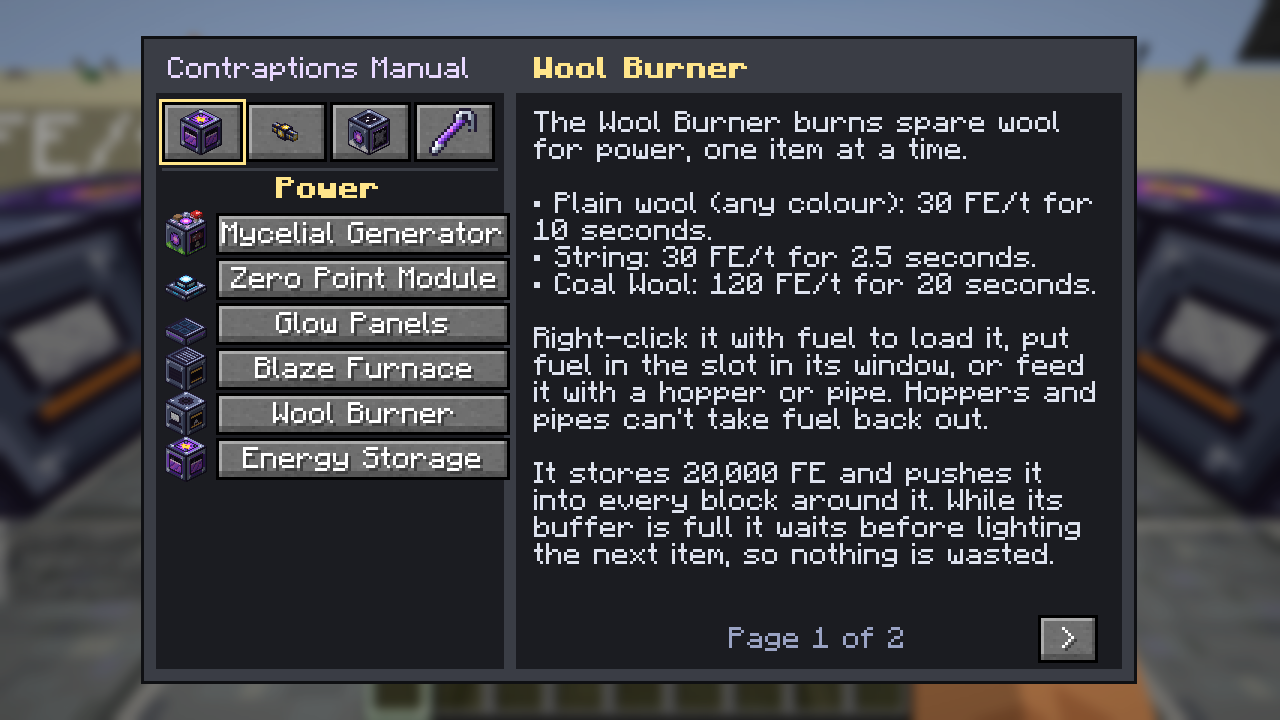
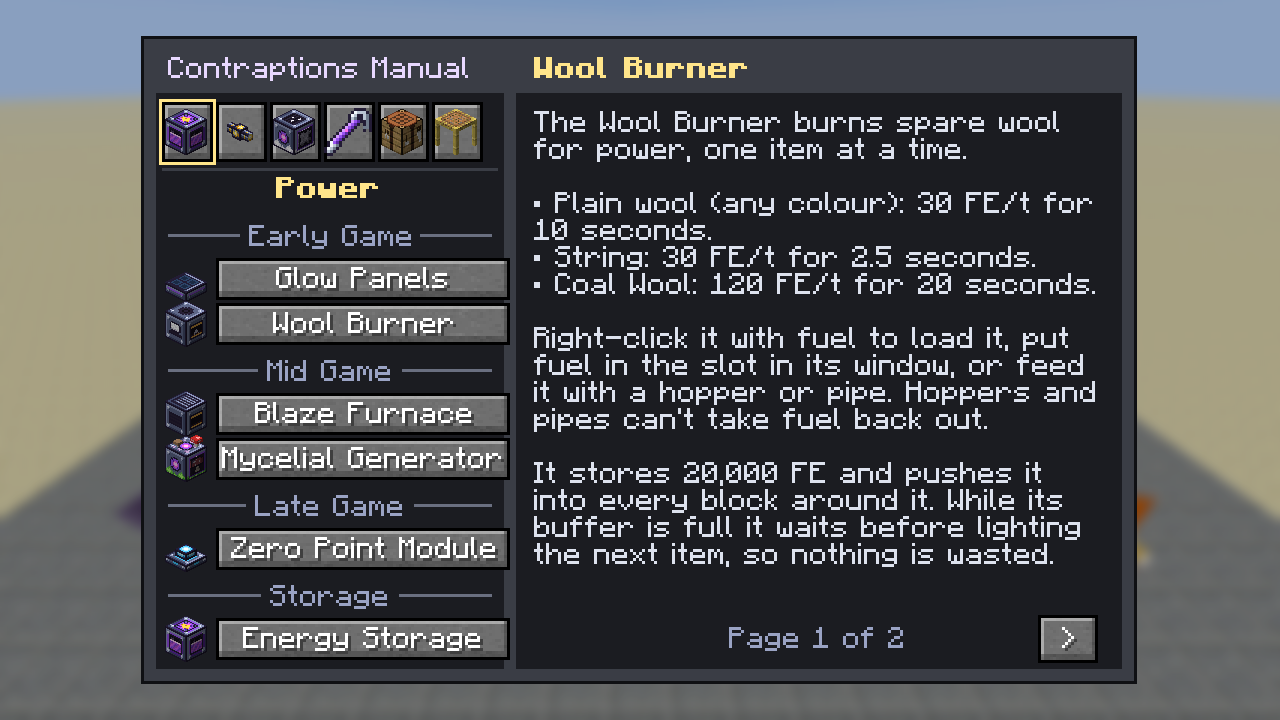
Sort the manual's Power tab into early, mid and late game
Guide chapters can name a group, and the chapter list shows a heading for
each. The Power tab lists the Glow Panels and Wool Burner under Early Game,
the Blaze Furnace and Mycelial Generator under Mid Game, the Zero Point Module
under Late Game, and Energy Storage under Storage. The README's Power section
follows the same order.

Claude-Session: https://claude.ai/code/session_012iurxobutw9xMP3SqHHLFE

diff --git a/src/main/java/com/jax3/barelyfunctionalcontraptions/sheep/client/GuideScreen.java b/src/main/java/com/jax3/barelyfunctionalcontraptions/sheep/client/GuideScreen.java
@@ -57,9 +57,25 @@ public class GuideScreen extends Screen {
         return result;
     }
 
-    /** Height of one chapter button: 15, or less so that a longer list still fits in the window. */
+    /** One line of the chapter list: a chapter (its index in {@link #chapters}), or a group heading. */
+    private record Row(int chapter, String heading) {}
+
+    /** The open tab's list: its chapters, with a heading wherever the group changes (the Power tab's tiers). */
+    private List<Row> rows() {
+        List<Row> rows = new ArrayList<>();
+        String group = "";
+        for (int index : inTab()) {
+            String g = chapters.get(index).group();
+            if (!g.isEmpty() && !g.equals(group)) rows.add(new Row(-1, g));
+            group = g;
+            rows.add(new Row(index, ""));
+        }
+        return rows;
+    }
+
+    /** Height of one list row: 15, or less so that a longer list still fits in the window. */
     private int row() {
-        return Math.min(ROW, LIST_HEIGHT / Math.max(1, inTab().size()));
+        return Math.min(ROW, LIST_HEIGHT / Math.max(1, rows().size()));
     }
 
     private int left() {
@@ -81,9 +97,11 @@ public class GuideScreen extends Screen {
                     .bounds(left() + 6 + i * (TAB_W + 1), top() + TAB_Y, TAB_W, TAB_H).build()));
         }
         List<Integer> list = inTab();
+        List<Row> rows = rows();
         int y = top() + LIST_Y;
-        for (int i = 0; i < list.size(); i++) {
-            int index = list.get(i);
+        for (int i = 0; i < rows.size(); i++) {
+            int index = rows.get(i).chapter();
+            if (index < 0) continue;
             addRenderableWidget(Button.builder(Component.literal(chapters.get(index).title()), b -> openChapter(index))
                     .bounds(x + 18, y + i * row(), LIST_WIDTH - 20, row() - 1).build());
         }
@@ -282,9 +300,20 @@ public class GuideScreen extends Screen {
         }
         Component tabName = tab.title().copy().withStyle(ChatFormatting.BOLD);
         g.text(font, tabName, x + 4 + (LIST_WIDTH - 2 - font.width(tabName)) / 2, y + TAB_NAME_Y, 0xFFFFE58A, false);
-        List<Integer> list = inTab();
-        for (int i = 0; i < list.size(); i++) {
-            g.item(chapters.get(list.get(i)).icon(), x + 6, y + LIST_Y + i * row() - 1);
+        List<Row> rows = rows();
+        for (int i = 0; i < rows.size(); i++) {
+            Row r = rows.get(i);
+            int rowY = y + LIST_Y + i * row();
+            if (r.chapter() >= 0) {
+                g.item(chapters.get(r.chapter()).icon(), x + 6, rowY - 1);
+            } else {
+                // A group heading: its name centred between two rules.
+                Component heading = Component.literal(r.heading());
+                int w = font.width(heading), cx = x + 4 + (LIST_WIDTH - 2) / 2, ty = rowY + (row() - 9) / 2 + 1;
+                g.fill(x + 8, ty + 3, cx - w / 2 - 3, ty + 4, 0xFF6A6F80);
+                g.fill(cx + w / 2 + 3, ty + 3, x + LIST_WIDTH - 2, ty + 4, 0xFF6A6F80);
+                g.text(font, heading, cx - w / 2, ty, 0xFF9AA3C4, false);
+            }
         }
         if (chapters.isEmpty()) {
             g.text(font, Component.translatable("guide.barelyfunctionalcontraptions.missing"), x + LIST_WIDTH + 12, y + 24, 0xFFFF8080, false);

diff --git a/src/main/java/com/jax3/barelyfunctionalcontraptions/sheep/client/GuideBook.java b/src/main/java/com/jax3/barelyfunctionalcontraptions/sheep/client/GuideBook.java
@@ -21,17 +21,26 @@ import net.minecraft.world.item.Items;
  * <pre>{@code
  * { "chapters": [
  *     { "title": "Mycelial Generator", "icon": "barelyfunctionalcontraptions:mycelial_generator", "tab": "power",
- *       "text": ["A paragraph.", "## A heading", "- A list item"] } ] }
+ *       "group": "Mid Game", "text": ["A paragraph.", "## A heading", "- A list item"] } ] }
  * }</pre>
+ * {@code group} is optional: within a tab, chapters are listed under a heading for each group, in file order.
  * Paragraphs are wrapped and split into pages by the screen. A paragraph starting with {@code ## } is a heading.
  * {@code tab} is one of {@code power}, {@code logistics}, {@code production}, {@code utility} (the default) or {@code wip}
  * (work-in-progress features). The
  * Recipes tab isn't in the JSON: {@link GuideRecipes} builds it from the game.
  */
 public final class GuideBook {
-    public record Chapter(String title, ItemStack icon, Tab tab, List<String> text, List<GuideRecipes.Recipe> recipes) {
+    /**
+     * @param group a heading the chapter is listed under within its tab ("Early Game"...), or empty; chapters of one
+     *              group should follow each other in the file
+     */
+    public record Chapter(String title, ItemStack icon, Tab tab, String group, List<String> text, List<GuideRecipes.Recipe> recipes) {
         public Chapter(String title, ItemStack icon, Tab tab, List<String> text) {
-            this(title, icon, tab, text, List.of());
+            this(title, icon, tab, "", text, List.of());
+        }
+
+        public Chapter(String title, ItemStack icon, Tab tab, List<String> text, List<GuideRecipes.Recipe> recipes) {
+            this(title, icon, tab, "", text, recipes);
         }
 
         /** A chapter of recipes (the Recipes tab), drawn as slots rather than text. */
@@ -112,7 +121,8 @@ public final class GuideBook {
             List<String> text = new ArrayList<>();
             for (JsonElement line : chapter.getAsJsonArray("text")) text.add(line.getAsString());
             Tab tab = Tab.byKey(chapter.has("tab") ? chapter.get("tab").getAsString() : "");
-            chapters.add(new Chapter(title, icon, tab, List.copyOf(text)));
+            String group = chapter.has("group") ? chapter.get("group").getAsString() : "";
+            chapters.add(new Chapter(title, icon, tab, group, List.copyOf(text), List.of()));
         }
         return chapters;
     }

diff --git a/src/main/java/com/jax3/barelyfunctionalcontraptions/sheep/client/DevScreenshotHarness.java b/src/main/java/com/jax3/barelyfunctionalcontraptions/sheep/client/DevScreenshotHarness.java
@@ -1701,7 +1701,9 @@ public final class DevScreenshotHarness {
             case 348 -> shot(mc, "99_guide_recipes_bales");
             case 350 -> { if (mc.gui.screen() instanceof GuideScreen guide) guide.openTab(GuideBook.Tab.WIP); }
             case 360 -> shot(mc, "99_guide_wip");
-            case 364 -> mc.stop();
+            case 362 -> { if (mc.gui.screen() instanceof GuideScreen guide) guide.openChapter("Wool Burner"); }
+            case 372 -> shot(mc, "83_guide_power_tab");
+            case 376 -> mc.stop();
             default -> {}
         }
     }

diff --git a/docs/CURSEFORGE.md b/docs/CURSEFORGE.md
@@ -41,17 +41,9 @@ Craft a book with a Functional Machine Block to get the in-game guide. Its chapt
 
 ## Power
 
-### Mycelial Generator
+The manual sorts the generators into tiers.
 
-Burns red or brown mushrooms and water for 200–250 FE/t. Generators that touch form a network, and each running one boosts the whole network's output. Running generators slowly turn nearby dirt into mycelium and sometimes grow huge mushrooms, so they make more of their own fuel.
-
-![Machine fronts, idle and running](https://raw.githubusercontent.com/JAX3/Barely-Functional-Contraptions/main/docs/screenshots/14_machine_fronts.png)
-
-### Zero Point Module
-
-Two modules facing each other across open space link with a beam and make 1,000 FE/t for every block of gap, up to 64. Stained glass in the gap colours the beam, and the beam burns anything that walks into it.
-
-![Two Zero Point Energy Modules joined by a beam coloured by stained glass](https://raw.githubusercontent.com/JAX3/Barely-Functional-Contraptions/main/docs/screenshots/34_zero_point_coloured_beam.png)
+**Early game:** Glow Panel and Wool Burner. Cheap to build, but weak.
 
 ### Glow Panels
 
@@ -59,17 +51,33 @@ Make up to 60 FE/t from sunlight and up to 40 FE/t from block light; a Glow Lamp
 
 ![Glow Panels in the sun with a Glow Lamp](https://raw.githubusercontent.com/JAX3/Barely-Functional-Contraptions/main/docs/screenshots/55_glow_panels.png)
 
+### Wool Burner
+
+Burns spare wool for power, one item at a time: plain wool and string give 30 FE/t, Coal Wool 120 FE/t. It waits while its buffer is full, so nothing is wasted.
+
+![A row of Wool Burners, one fed by a hopper](https://raw.githubusercontent.com/JAX3/Barely-Functional-Contraptions/main/docs/screenshots/80_wool_burners.png)
+
+**Mid game:** Blaze Furnace and Mycelial Generator. They need the Nether or a mushroom farm, and Mycelial networks grow fast.
+
 ### Blaze Furnace
 
 Makes power from the heat of Blaze sheep standing round it: 80 FE/t for one, up to 260 FE/t for four. Only a sheep with its blazing fleece on counts, and each Blaze Rod doubles the output for 30 seconds.
 
 ![A Blaze Sheep Furnace beside a burning Blaze sheep, with its area shown](https://raw.githubusercontent.com/JAX3/Barely-Functional-Contraptions/main/docs/screenshots/70_blaze_furnace.png)
 
-### Wool Burner
+### Mycelial Generator
 
-Burns spare wool for power, one item at a time: plain wool and string give 30 FE/t, Coal Wool 120 FE/t. It waits while its buffer is full, so nothing is wasted.
+Burns red or brown mushrooms and water for 200–250 FE/t. Generators that touch form a network, and each running one boosts the whole network's output. Running generators slowly turn nearby dirt into mycelium and sometimes grow huge mushrooms, so they make more of their own fuel.
 
-![A row of Wool Burners, one fed by a hopper](https://raw.githubusercontent.com/JAX3/Barely-Functional-Contraptions/main/docs/screenshots/80_wool_burners.png)
+![Machine fronts, idle and running](https://raw.githubusercontent.com/JAX3/Barely-Functional-Contraptions/main/docs/screenshots/14_machine_fronts.png)
+
+**Late game:** Zero Point Module. It costs a Nether Star and makes the most power, with no fuel.
+
+### Zero Point Module
+
+Two modules facing each other across open space link with a beam and make 1,000 FE/t for every block of gap, up to 64. Stained glass in the gap colours the beam, and the beam burns anything that walks into it.
+
+![Two Zero Point Energy Modules joined by a beam coloured by stained glass](https://raw.githubusercontent.com/JAX3/Barely-Functional-Contraptions/main/docs/screenshots/34_zero_point_coloured_beam.png)
 
 ### Energy Storage
 

diff --git a/README.md b/README.md
@@ -35,17 +35,9 @@ Craft a book with a Functional Machine Block to get the in-game guide. Its chapt
 
 ## Power
 
-### Mycelial Generator
+The manual sorts the generators into tiers.
 
-Burns red or brown mushrooms and water for 200–250 FE/t. Generators that touch form a network, and each running one boosts the whole network's output. Running generators slowly turn nearby dirt into mycelium and sometimes grow huge mushrooms, so they make more of their own fuel.
-
-![Machine fronts, idle and running](docs/screenshots/14_machine_fronts.png)
-
-### Zero Point Module
-
-Two modules facing each other across open space link with a beam and make 1,000 FE/t for every block of gap, up to 64. Stained glass in the gap colours the beam, and the beam burns anything that walks into it.
-
-![Two Zero Point Energy Modules joined by a beam coloured by stained glass](docs/screenshots/34_zero_point_coloured_beam.png)
+**Early game:** Glow Panel and Wool Burner. Cheap to build, but weak.
 
 ### Glow Panels
 
@@ -53,17 +45,33 @@ Make up to 60 FE/t from sunlight and up to 40 FE/t from block light; a Glow Lamp
 
 ![Glow Panels in the sun with a Glow Lamp](docs/screenshots/55_glow_panels.png)
 
+### Wool Burner
+
+Burns spare wool for power, one item at a time: plain wool and string give 30 FE/t, Coal Wool 120 FE/t. It waits while its buffer is full, so nothing is wasted.
+
+![A row of Wool Burners, one fed by a hopper](docs/screenshots/80_wool_burners.png)
+
+**Mid game:** Blaze Furnace and Mycelial Generator. They need the Nether or a mushroom farm, and Mycelial networks grow fast.
+
 ### Blaze Furnace
 
 Makes power from the heat of Blaze sheep standing round it: 80 FE/t for one, up to 260 FE/t for four. Only a sheep with its blazing fleece on counts, and each Blaze Rod doubles the output for 30 seconds.
 
 ![A Blaze Sheep Furnace beside a burning Blaze sheep, with its area shown](docs/screenshots/70_blaze_furnace.png)
 
-### Wool Burner
+### Mycelial Generator
 
-Burns spare wool for power, one item at a time: plain wool and string give 30 FE/t, Coal Wool 120 FE/t. It waits while its buffer is full, so nothing is wasted.
+Burns red or brown mushrooms and water for 200–250 FE/t. Generators that touch form a network, and each running one boosts the whole network's output. Running generators slowly turn nearby dirt into mycelium and sometimes grow huge mushrooms, so they make more of their own fuel.
 
-![A row of Wool Burners, one fed by a hopper](docs/screenshots/80_wool_burners.png)
+![Machine fronts, idle and running](docs/screenshots/14_machine_fronts.png)
+
+**Late game:** Zero Point Module. It costs a Nether Star and makes the most power, with no fuel.
+
+### Zero Point Module
+
+Two modules facing each other across open space link with a beam and make 1,000 FE/t for every block of gap, up to 64. Stained glass in the gap colours the beam, and the beam burns anything that walks into it.
+
+![Two Zero Point Energy Modules joined by a beam coloured by stained glass](docs/screenshots/34_zero_point_coloured_beam.png)
 
 ### Energy Storage
 

diff --git a/docs/REFERENCE.md b/docs/REFERENCE.md
@@ -62,7 +62,7 @@ The integration is covered by GameTests, which run in [`IntegrationGameTests`](.
 ### Contraptions Manual (in-game guide)
 Craft a **Contraptions Manual** (a book and a Functional Machine Block) and right-click it to read about everything in the mod in game. Its chapters are sorted into six tabs along the top of the left panel:
 
-- **Power:** the generators (Mycelial Generator, Zero Point Module, Glow Panels, Blaze Sheep Furnace, Wool Burner) and energy storage.
+- **Power:** the generators, listed in tiers: *Early Game* (Glow Panels, Wool Burner), *Mid Game* (Blaze Sheep Furnace, Mycelial Generator) and *Late Game* (Zero Point Module), then energy storage. A guide chapter's optional `"group"` field sets the heading it is listed under.
 - **Logistics:** cables and the Energy Meter, tanks and pipes, pipe modes and filters, and the Wool Packer.
 - **Production:** infusing sheep, the themed sheep, the Infusion Altar, breeding stats, the Mechanical Separator and Automatic Shears, and the Fluid Reservoir.
 - **Utility:** getting started, the wrench and its links, and data packs and commands.
@@ -73,7 +73,7 @@ Hover over a tab to see its name. A resource pack's guide file can still use the
 
 | Power tab | Production tab |
 |---|---|
-| ![The Contraptions Manual on its Power tab: four tab icons along the top with Power framed, its six chapters below, and the Wool Burner chapter open](screenshots/83_guide_power_tab.png) | ![The Production tab: Infusing Sheep, Themed Sheep, Infusion Altar, Breeding Sheep, Wool Machines and Fluid Reservoir, with Infusing Sheep open](screenshots/84_guide_production_tab.png) |
+| ![The Contraptions Manual on its Power tab: six tab icons along the top with Power framed, its chapters below under Early Game, Mid Game, Late Game and Storage headings, and the Wool Burner chapter open](screenshots/83_guide_power_tab.png) | ![The Production tab: Infusing Sheep, Themed Sheep, Infusion Altar, Breeding Sheep, Wool Machines and Fluid Reservoir, with Infusing Sheep open](screenshots/84_guide_production_tab.png) |
 
 | Recipes: Machines | Recipes: Mechanical Separator |
 |---|---|
